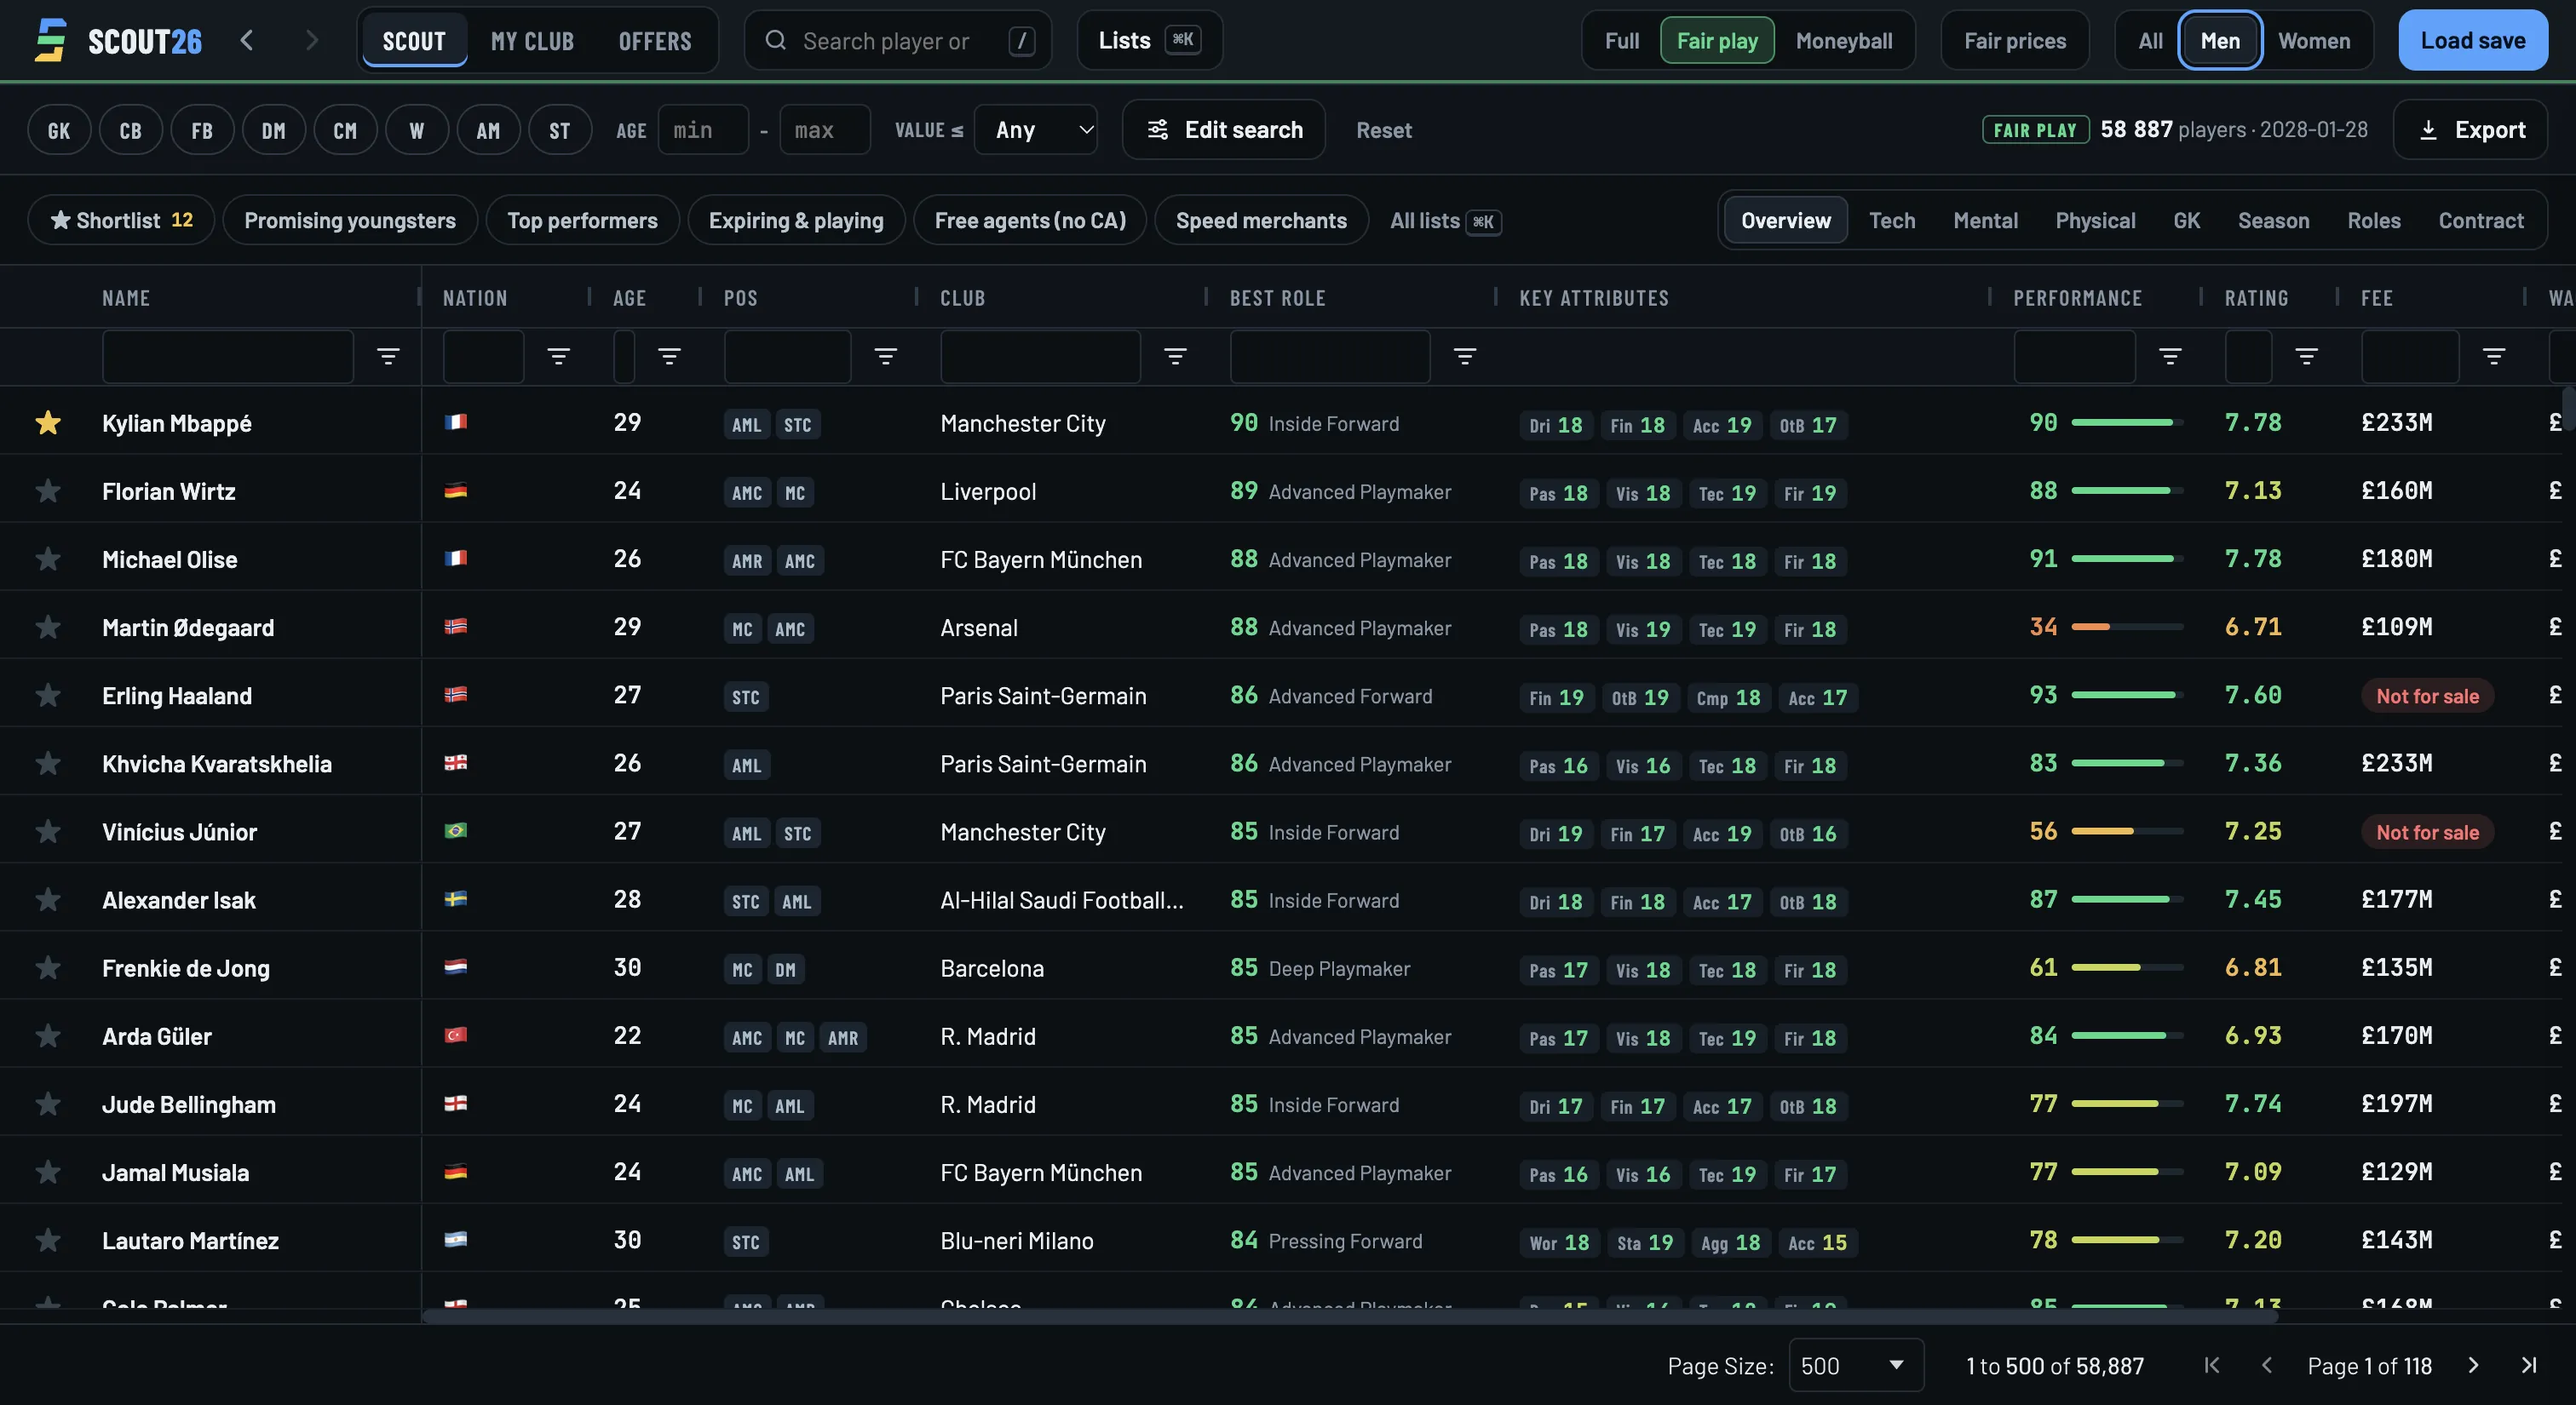
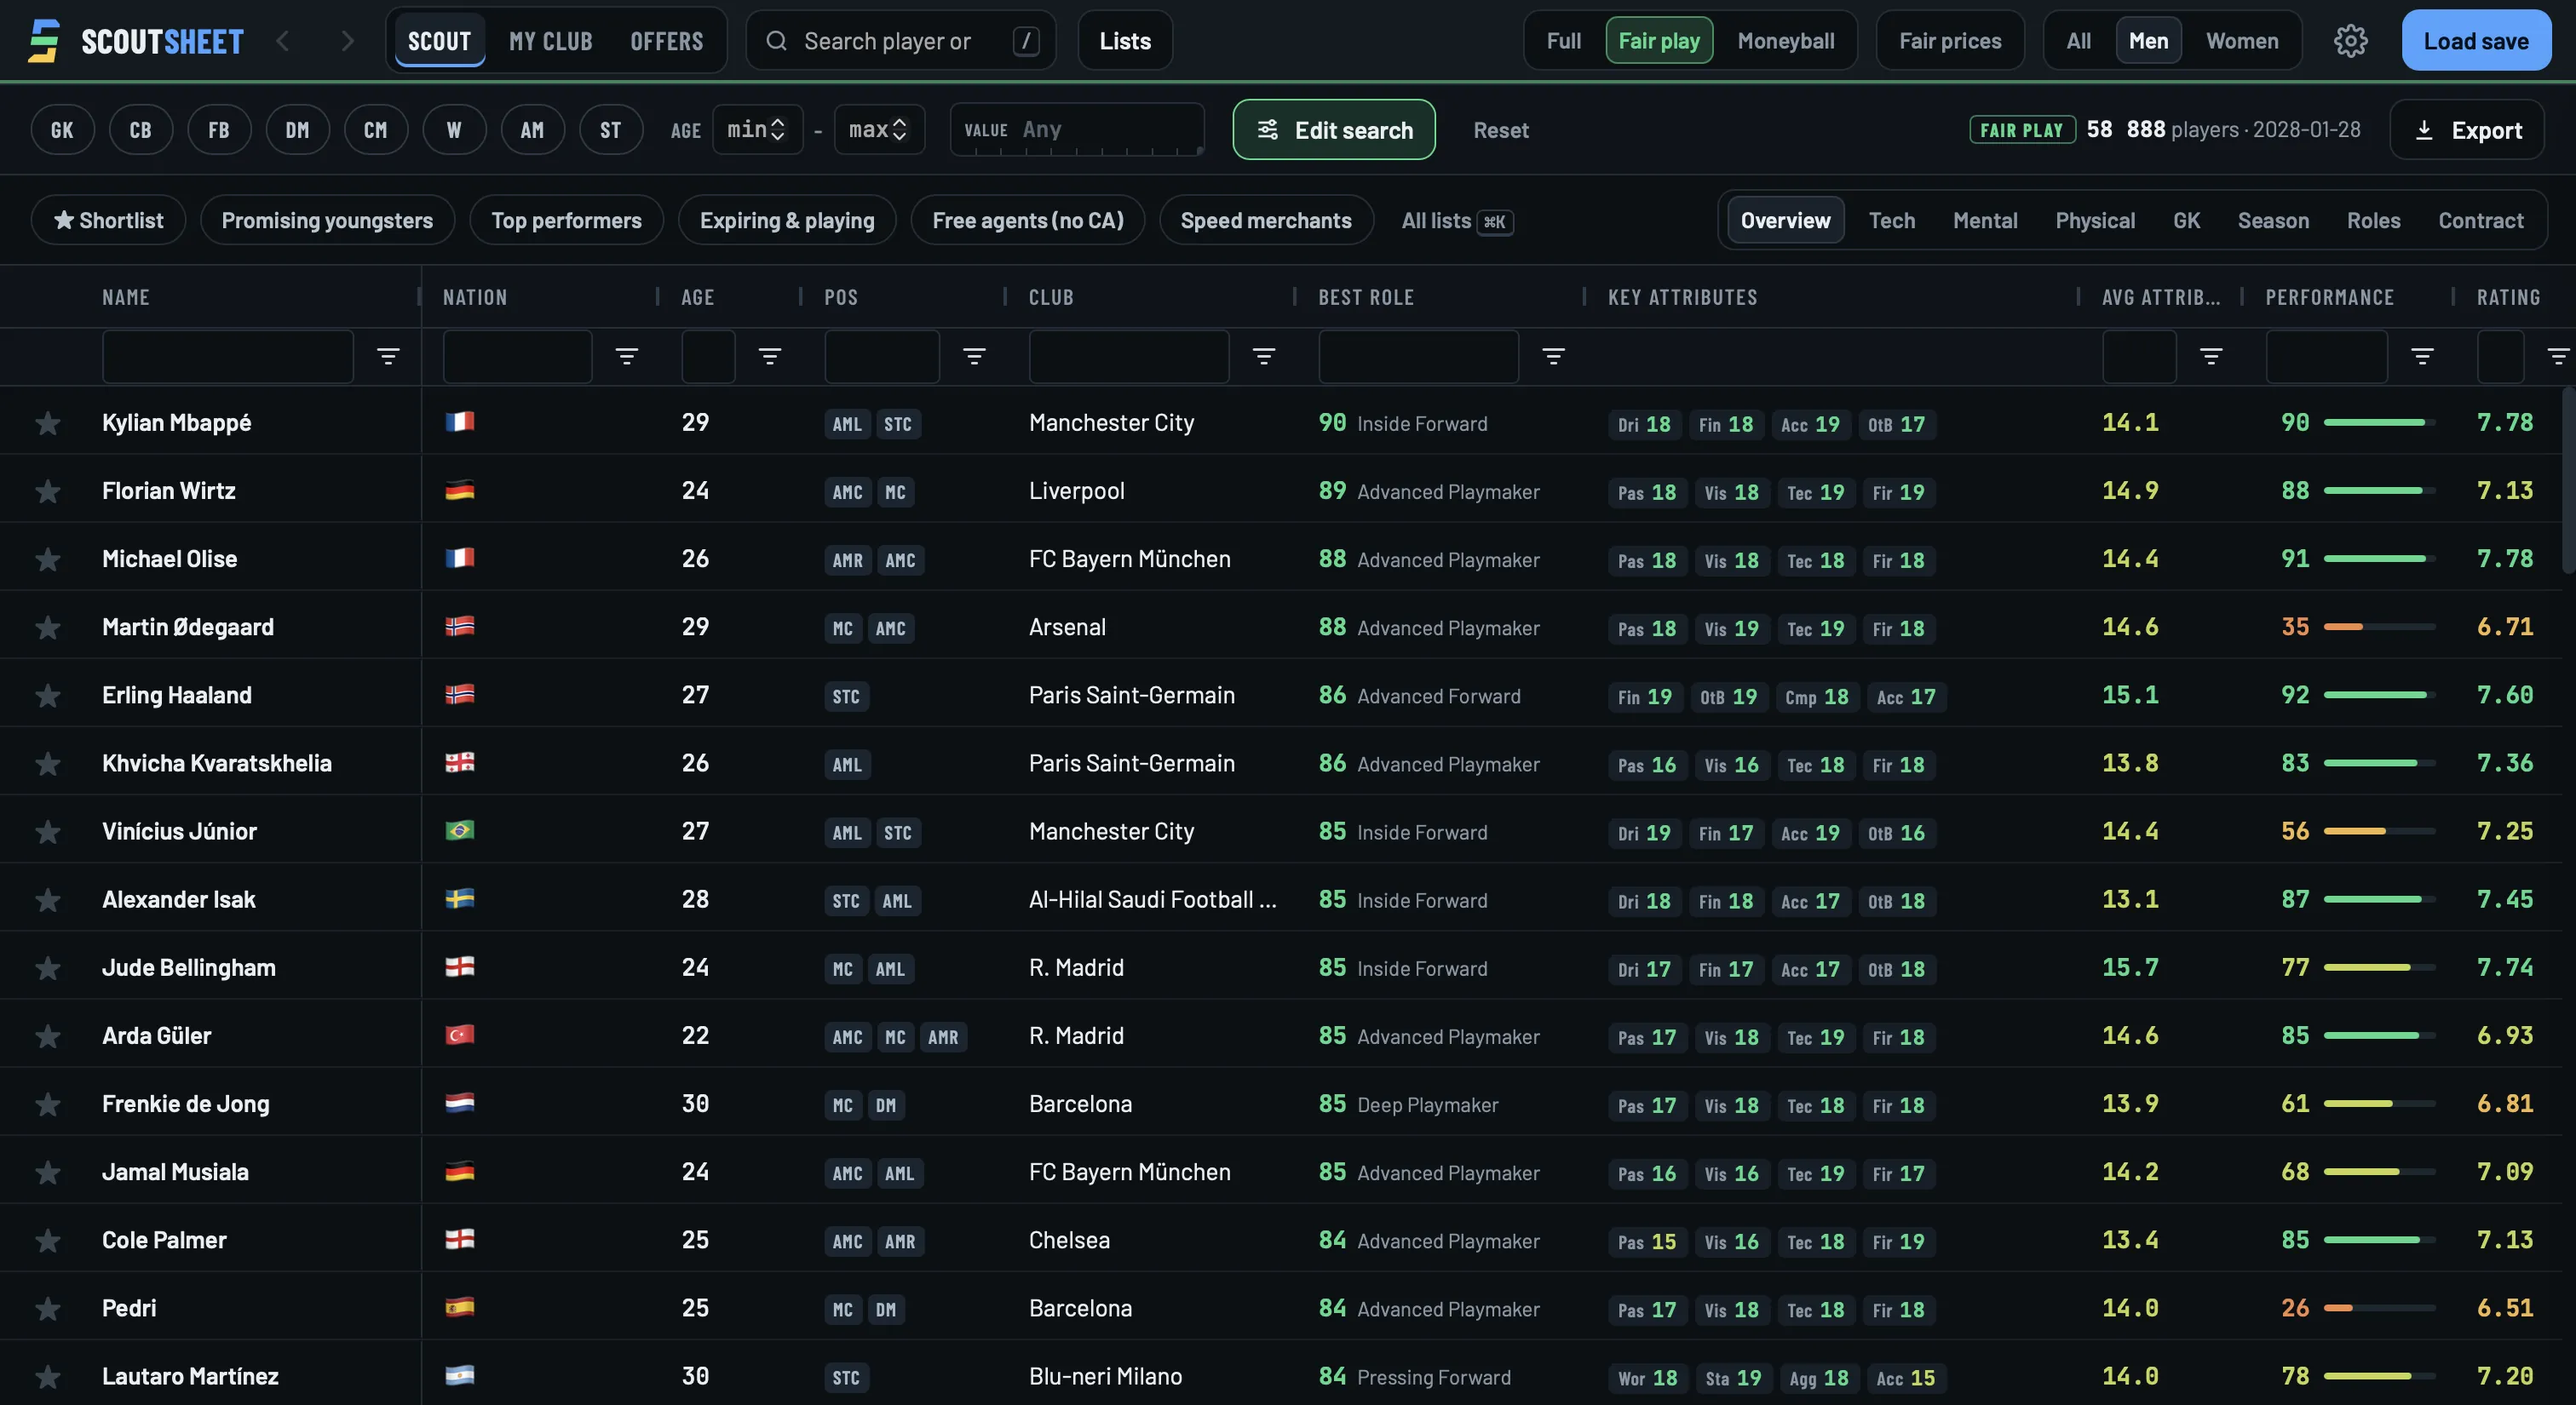
feat: v0.5.0 hero screenshots with the ScoutSheet name

diff --git a/README.md b/README.md
@@ -27,7 +27,7 @@ Open http://localhost:8000.
 
 ## Screenshots
 
-`img/` holds real v0.4.4 captures of the app (3024 px wide Retina PNGs, Bristol Rovers save, January 2028), exported to WebP (quality 80).
+`img/` holds real captures of the app (3024 px wide Retina PNGs), exported to WebP (quality 80). Desktop hero: v0.5.0, January 2028 save, cropped to 3024×1650. The other images are v0.4.4 captures of a Bristol Rovers save, January 2028.
 
 - Hero, desktop: `full`, `fair`, `moneyball` at two widths (`*-1600.webp`, `*-3024.webp`), served with `srcset`.
 - Hero, phone: `full-m`, `fair-m`, `moneyball-m`: the name column and the mode columns, cut side by side.
